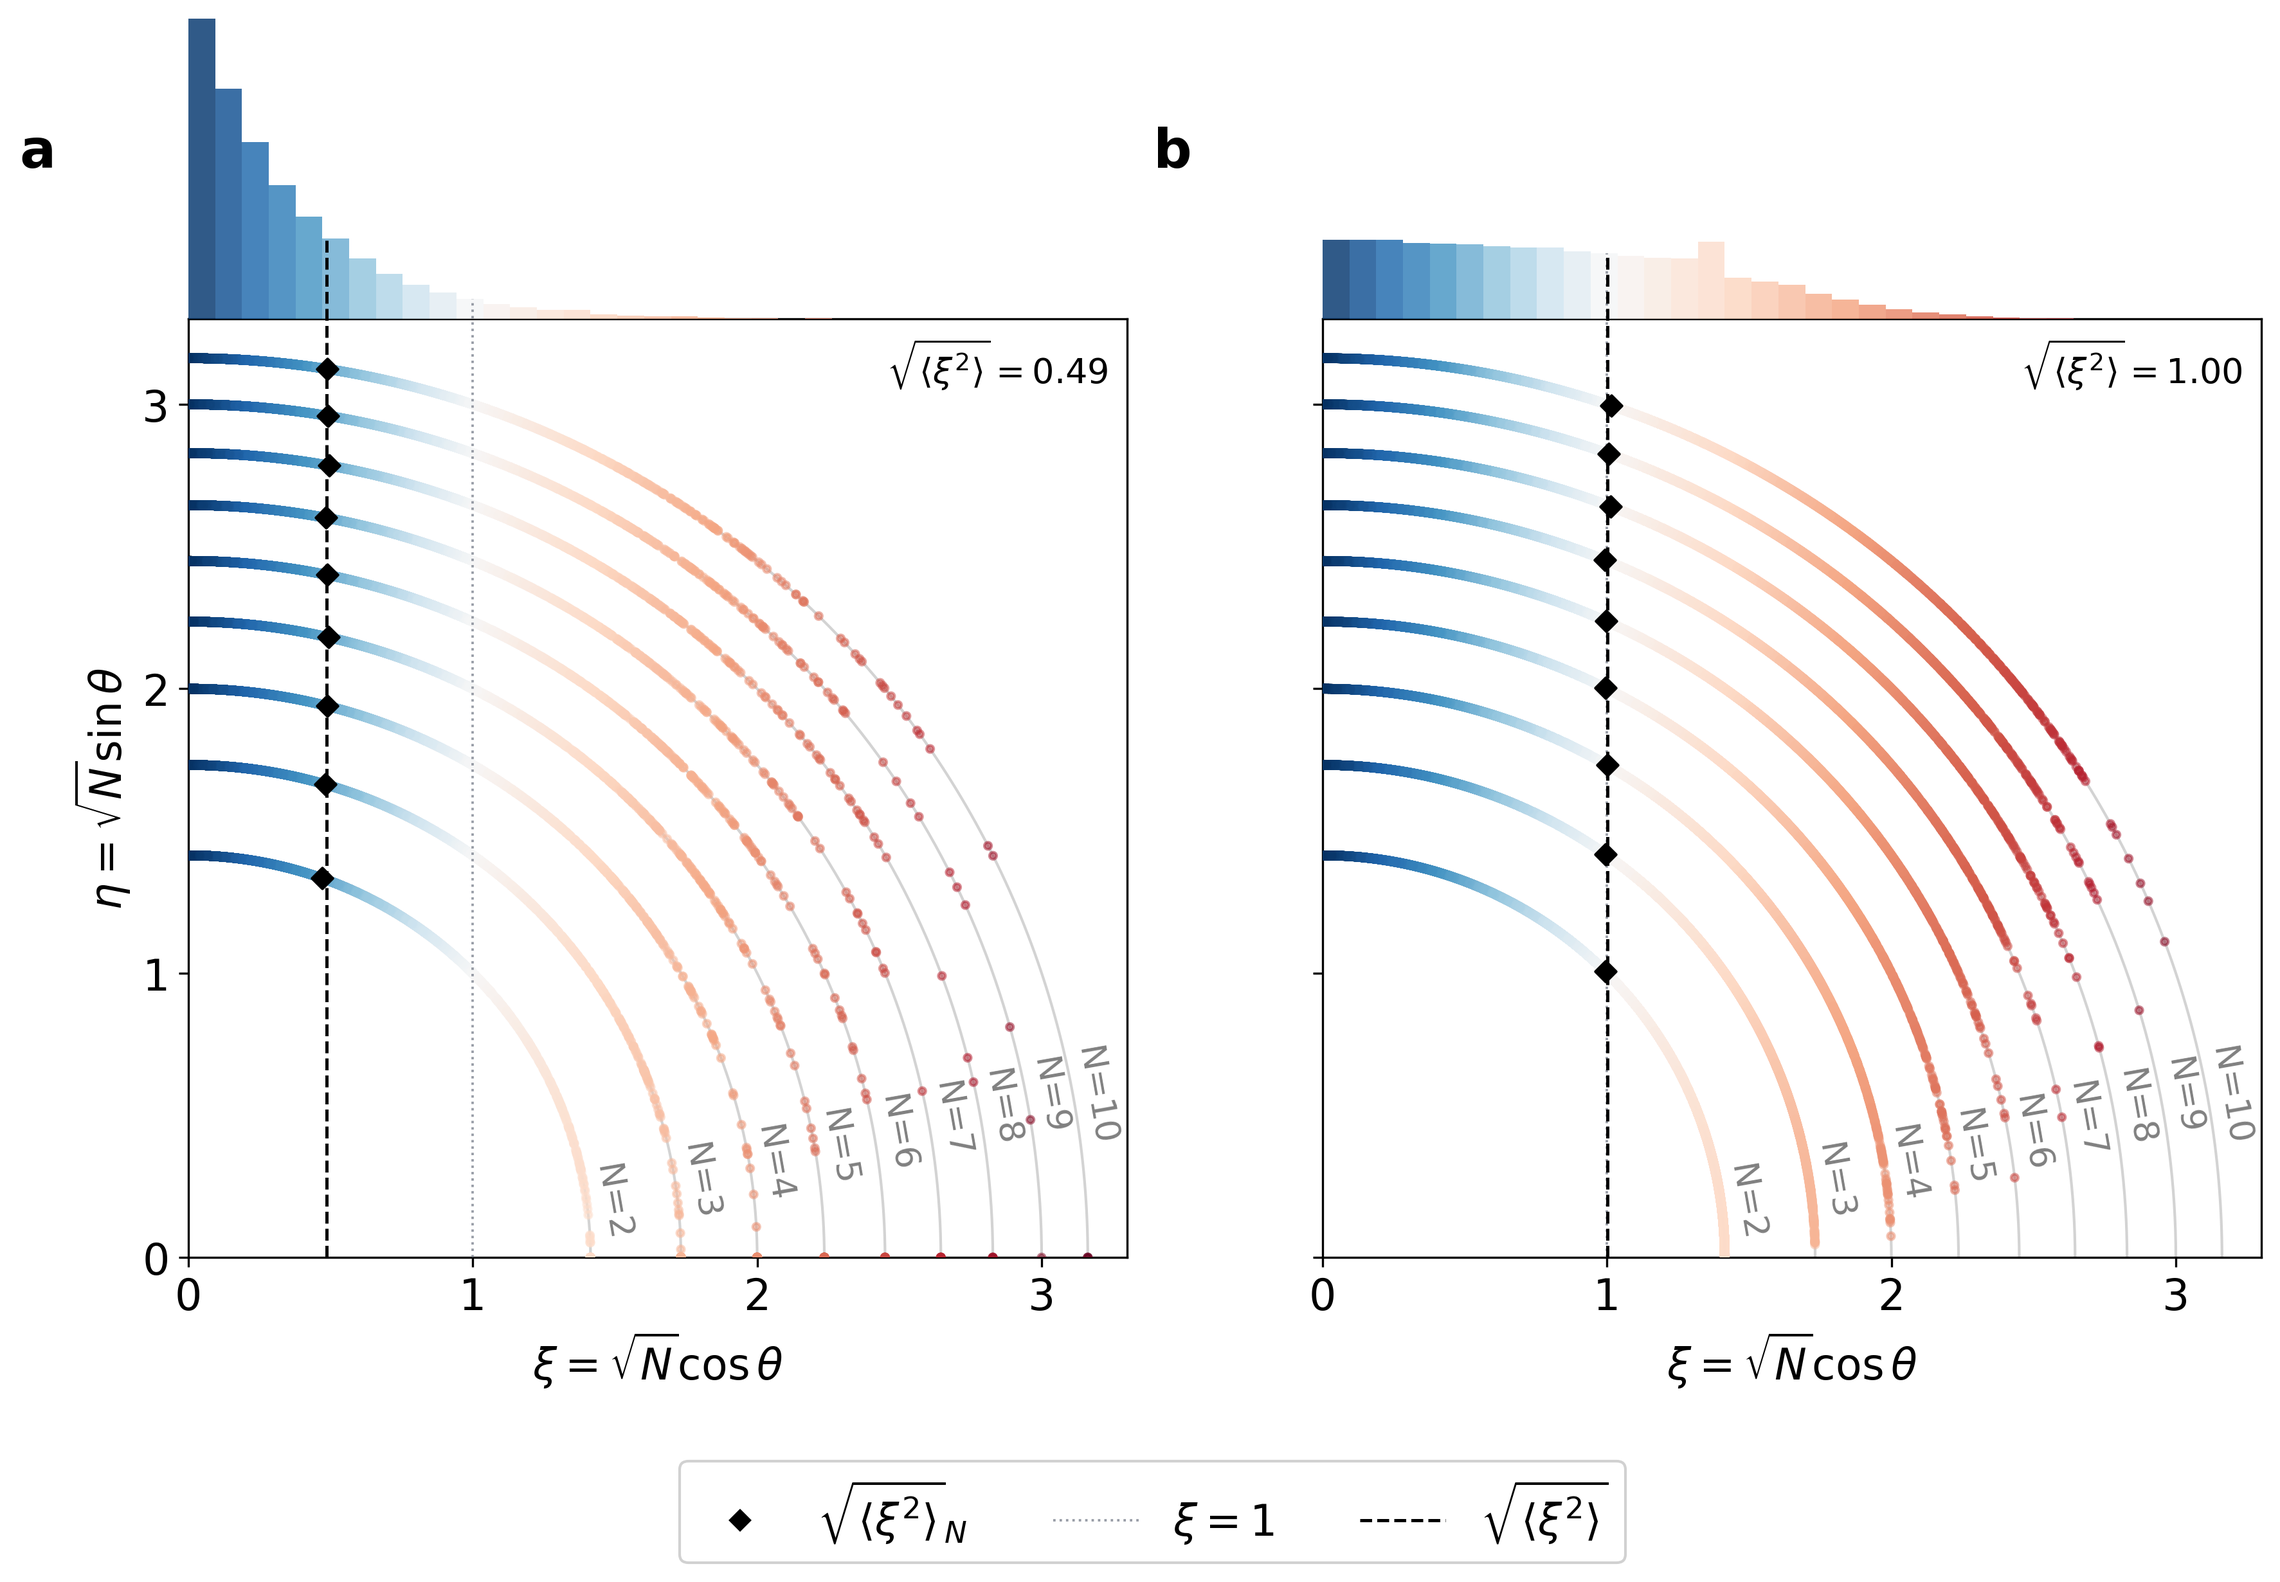
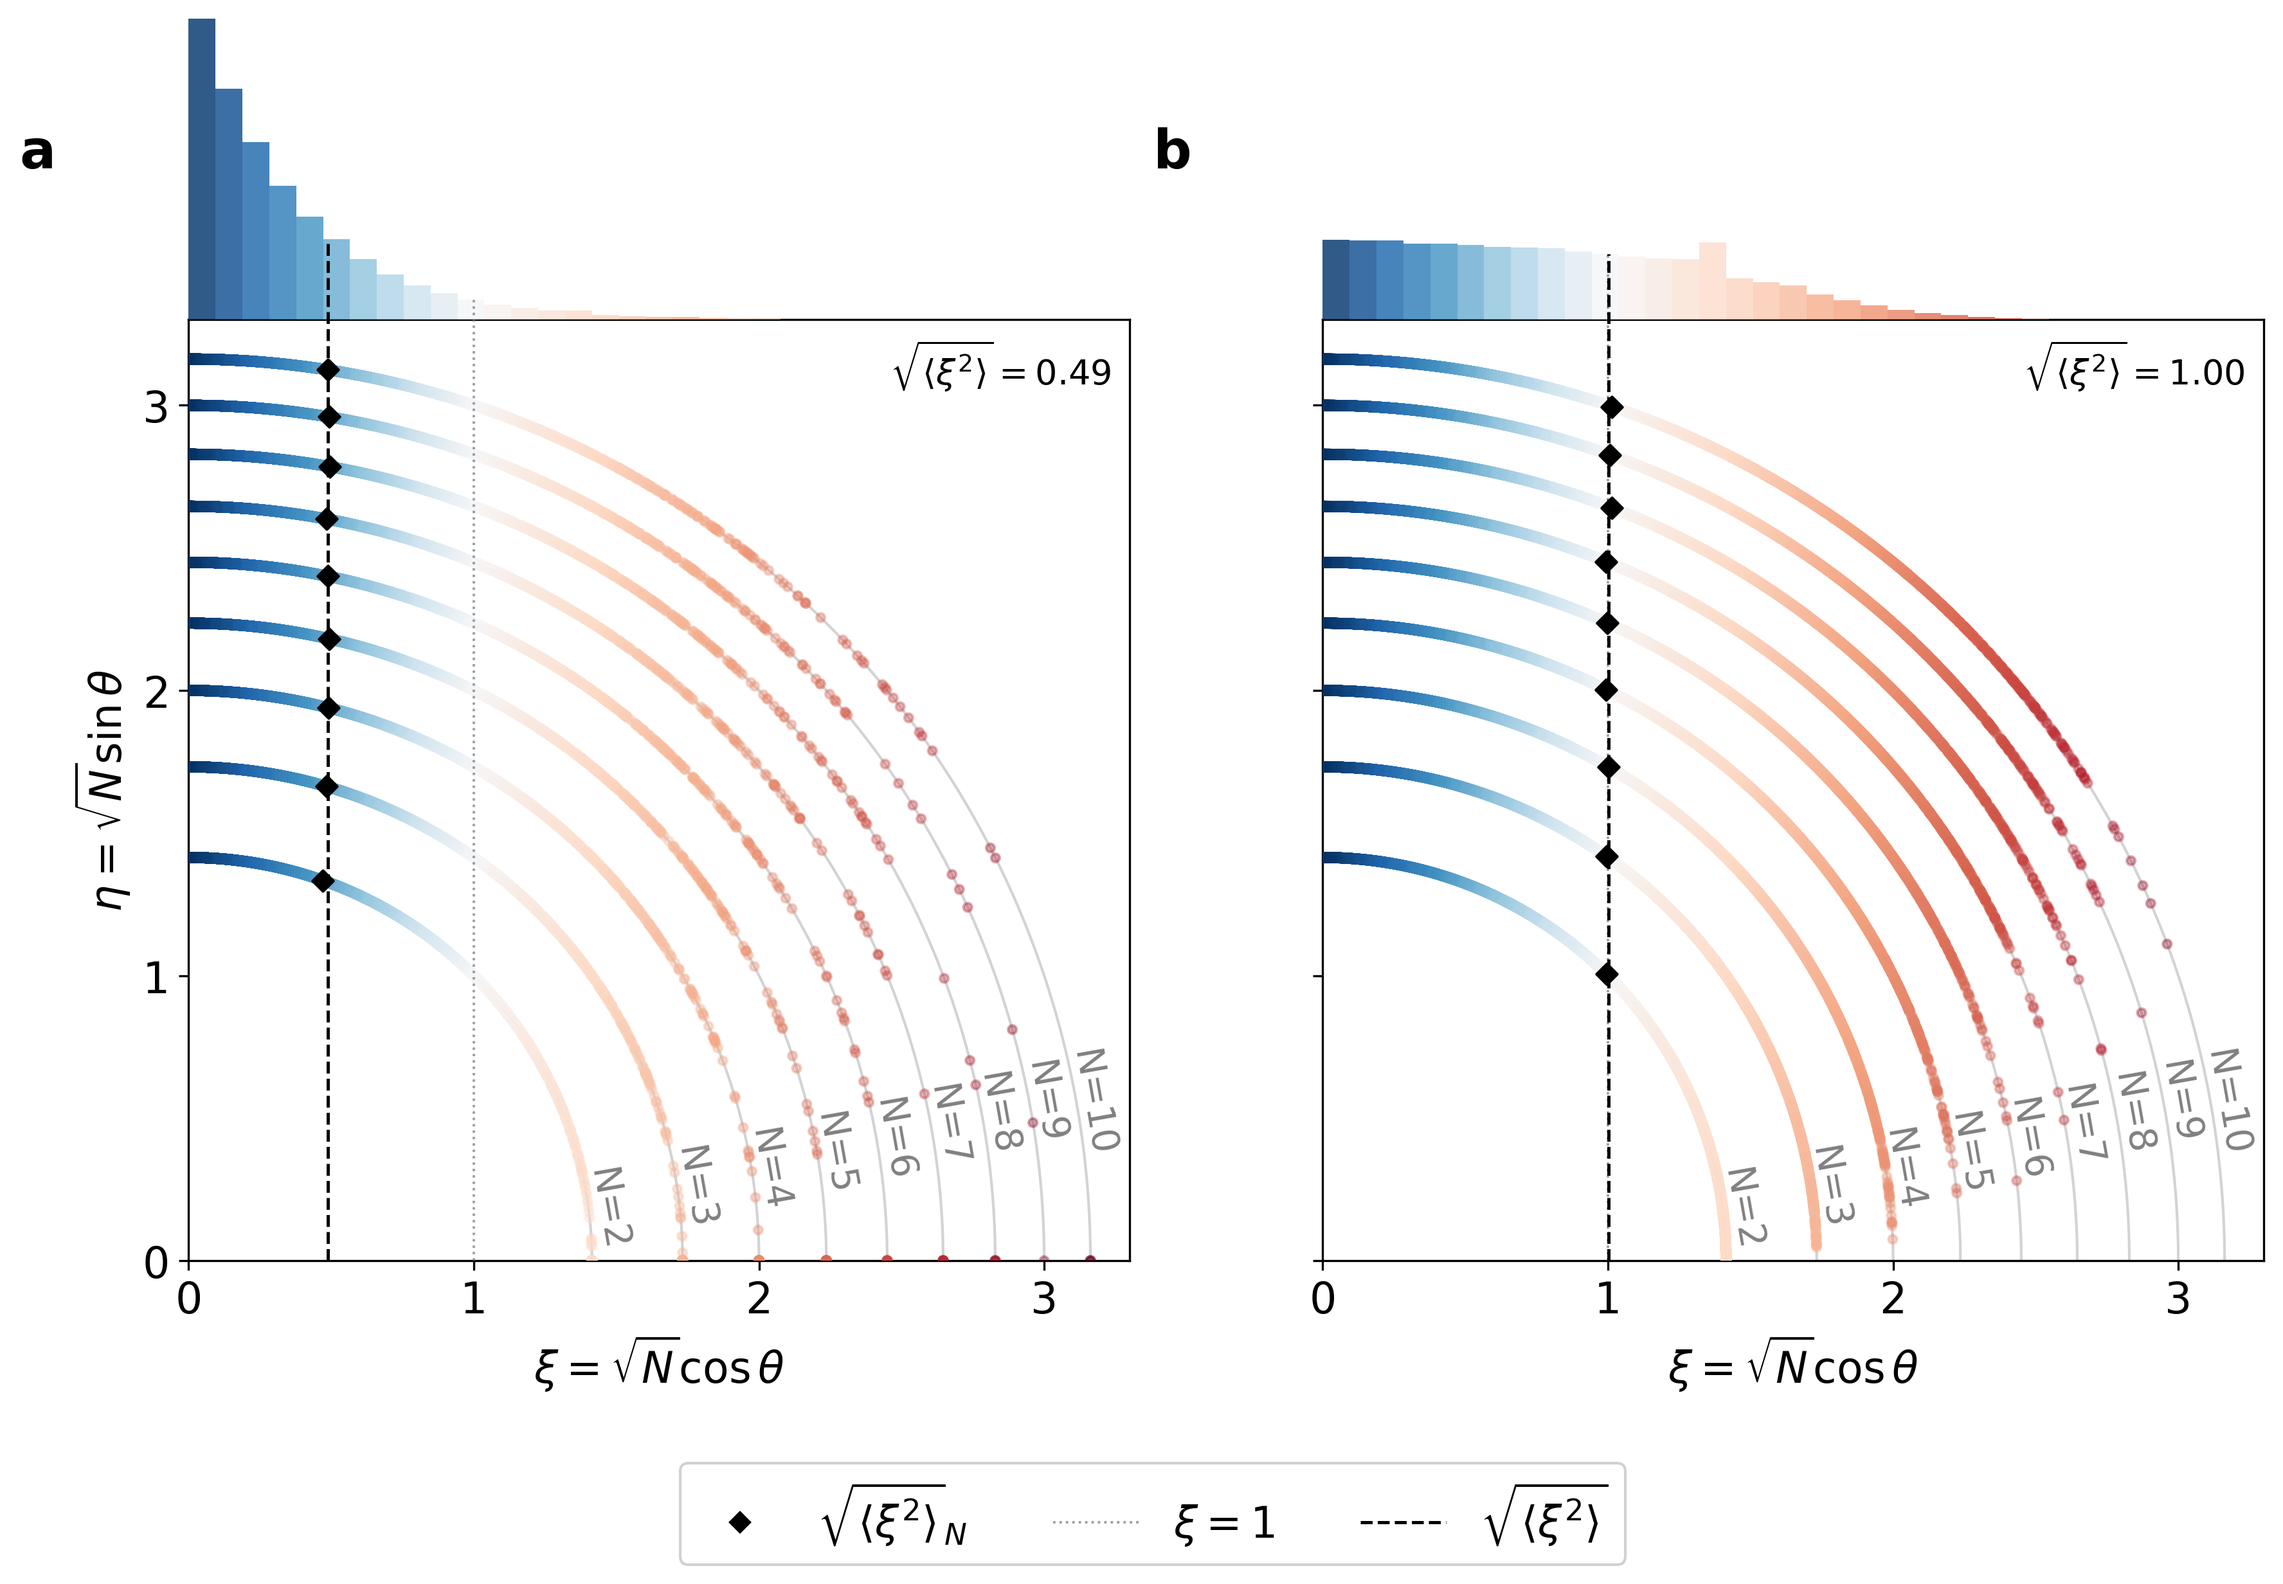
Figure changes

diff --git a/scripts/figures/fig6_lambda_sweep.py b/scripts/figures/fig6_lambda_sweep.py
@@ -14,6 +14,7 @@ import re
 import pandas as pd
 import matplotlib.pyplot as plt
 import matplotlib.ticker as ticker
+from matplotlib.patches import Patch
 
 # ── Journal style (npj Computational Materials) ──────────────────────────
 # source_pt = target_print_pt × (fig_width / journal_col_width)
@@ -30,14 +31,14 @@ plt.rcParams.update({'font.family': 'sans-serif', 'font.size': _FS,
 # Series definitions
 SERIES = {
     "iiLoss":        dict(prefix="iiLoss_",        exclude="pcgrad|save",
-                          color="#4361EE", marker="o", ls="-",  lw=1.8),
+                          color="#7B9FFF", marker="o", ls="-",  lw=1.8),
     "HdLoss":        dict(prefix="HdLoss_",         exclude="pcgrad|save",
-                          color="#E040AB", marker="s", ls="-",  lw=1.8),
+                          color="#FF85C8", marker="s", ls="-",  lw=1.8),
     "iiLoss+PCGrad": dict(prefix="iiLoss_pcgrad_", exclude=None,
-                          color="#7B9FFF", marker="^", ls="--", lw=1.4,
+                          color="#4361EE", marker="^", ls="--", lw=1.4,
                           anchor="iiLoss_0.0"),
     "HdLoss+PCGrad": dict(prefix="HdLoss_pcgrad_", exclude=None,
-                          color="#FF85C8", marker="D", ls="--", lw=1.4,
+                          color="#E040AB", marker="D", ls="--", lw=1.4,
                           anchor="HdLoss_0.0"),
 }
 
@@ -50,11 +51,10 @@ METRICS = [
     ("rms_xi", r"$\xi_\mathrm{rms}$"),
 ]
 
-# Optimal lambda for iiLoss and HdLoss in panel (b) — marked with a star
-ED_OPTIMA = {
-    "iiLoss+PCGrad": 0.3,   # lowest Hd_MAE across iiLoss+PCGrad sweep
-    "HdLoss+PCGrad": 0.4,   # lowest Hd_MAE across HdLoss+PCGrad sweep
-}
+# λ* markers: shown on panel b (Hd_MAE) only for PCGrad variants.
+# Optimum is detected dynamically from the data (argmin).
+OPTIMA_SERIES  = ["iiLoss+PCGrad", "HdLoss+PCGrad"]
+OPTIMA_PANELS  = {"Hd_MAE"}
 
 
 def extract_alpha(name, prefix):
@@ -72,11 +72,11 @@ def main():
     df = pd.read_csv(args.csv)
     df.columns = df.columns.str.strip()
 
-    fig, axes = plt.subplots(1, 3, figsize=(12, 4), sharey=False)
-    fig.subplots_adjust(wspace=0.35)
+    fig, axes = plt.subplots(3, 1, figsize=(5, 10), sharey=False, sharex=True)
+    fig.subplots_adjust(hspace=0.08)
 
-    # Collect series data for optimum markers in panel b
-    series_data = {}
+    # Collect series data for optimum markers (Hd_MAE and rms_xi panels)
+    series_data = {}   # {col: {label: (sub_df, color)}}
 
     for ax_idx, (ax, (col, ylabel)) in enumerate(zip(axes, METRICS)):
         for label, cfg in SERIES.items():
@@ -113,69 +113,93 @@ def main():
                     markersize=5, markeredgecolor="white",
                     markeredgewidth=0.5, zorder=3, label=label)
 
-            if col == "Hd_MAE":
-                series_data[label] = (sub, color)
+            if col in OPTIMA_PANELS:
+                series_data.setdefault(col, {})[label] = (sub, color)
 
-        ax.set_xlabel(r"$\lambda$", fontsize=_FS)
+        # x-axis: ticks + label only on bottom panel
+        if ax_idx < 2:
+            ax.tick_params(labelbottom=False)
+        else:
+            ax.set_xlabel(r"$\lambda$", fontsize=_FS)
         ax.set_ylabel(ylabel, fontsize=_FS)
         ax.tick_params(labelsize=_FS)
         ax.xaxis.set_minor_locator(ticker.MultipleLocator(0.1))
         ax.yaxis.set_minor_locator(ticker.MultipleLocator(0.01))
         ax.yaxis.set_major_formatter(ticker.FormatStrFormatter('%.2f'))
-        if ax_idx == 0:
+        if ax_idx in (0, 1):
             ax.set_yticks([0.10, 0.15, 0.20, 0.25])
+            ax.set_ylim(0.087, 0.265)
         elif ax_idx == 2:
-            ax.set_yticks([0.90, 0.95, 1.00, 1.05]); ax.set_ylim(0.895, 1.055)
+            # No hardcoded range — let data drive it, then add 8 % padding
+            ax.yaxis.set_major_locator(ticker.MultipleLocator(0.05))
+            ax.margins(y=0.08)
         ax.grid(True, which="major", lw=0.4, alpha=0.5)
         ax.grid(True, which="minor", lw=0.2, alpha=0.3)
 
-        # Baseline axhline — label anchored to right end of line
+        # Baseline dotted line
         baseline_row = df[df["model"] == "iiLoss_0.0"]
         if not baseline_row.empty:
             bval = baseline_row[col].values[0]
-            ax.axhline(bval, color="grey", lw=1.0, ls=":", alpha=0.8, zorder=1, label=r"baseline ($\lambda\!=\!0$)")
-            #ax.text(0.97, bval, r"baseline ($\lambda\!=\!0$)",
-            #        transform=ax.get_yaxis_transform(),
-            #        ha="right", va="bottom", fontsize=7, color="grey",
-            #        style="italic",)
+            ax.axhline(bval, color="grey", lw=1.0, ls=":", alpha=0.8, zorder=1,
+                       label=r"baseline ($\lambda\!=\!0$)")
 
-        # Optimum markers in panel (b) for iiLoss and HdLoss
-        if col == "Hd_MAE":
-            for ser_label, opt_alpha in ED_OPTIMA.items():
-                if ser_label not in series_data:
+        # λ* markers: dynamic argmin for Hd_MAE and rms_xi panels
+        if col in OPTIMA_PANELS and col in series_data:
+            for ser_label in OPTIMA_SERIES:
+                if ser_label not in series_data[col]:
                     continue
-                sub, color = series_data[ser_label]
-                row = sub[sub["alpha"] == opt_alpha]
-                if row.empty:
-                    row = sub.iloc[(sub["alpha"] - opt_alpha).abs().argsort()[:1]]
-                xv = row["alpha"].values[0]
-                yv = row[col].values[0]
-                ax.scatter(xv, yv, marker="*", s=180, color=color,
-                           edgecolors="white", linewidths=0.5, zorder=6)
+                sub, color = series_data[col][ser_label]
+                # exclude λ=0 anchor when finding minimum
+                cand = sub[sub["alpha"] > 0]
+                if cand.empty:
+                    continue
+                best_idx = cand[col].idxmin()
+                xv = cand.loc[best_idx, "alpha"]
+                yv = cand.loc[best_idx, col]
+                ax.scatter(xv, yv, marker="*", s=280, color=color,
+                           edgecolors="white", linewidths=0.6, zorder=6)
                 ax.annotate(rf"$\mathbf{{\lambda^*}}$",
-                            xy=(xv, yv), xytext=(4, 4),
+                            xy=(xv, yv), xytext=(7, -12),
                             textcoords="offset points",
                             fontsize=_FS_SM, color=color, fontweight="bold")
 
-    # Legend
+    # Legend — below the figure
+
     handles, labels = axes[0].get_legend_handles_labels()
     seen = {}
     for h, l in zip(handles, labels):
         if l not in seen:
             seen[l] = h
-    fig.legend(seen.values(), seen.keys(),
-               loc="lower center", ncol=len(seen),
-               fontsize=_FS_LEG, framealpha=0.9,
-               bbox_to_anchor=(0.5, -0.13))
 
-    # Panel labels — ax.text for consistency with other figures
+    blank = Patch(visible=False)
+
+    LEGEND_ORDER = [
+    "iiLoss",
+    "HdLoss",
+    "iiLoss+PCGrad",
+    "HdLoss+PCGrad",
+    r"baseline ($\lambda\!=\!0$)",
+    ]
+
+    ordered = [seen[l] for l in LEGEND_ORDER if l in seen]
+    labels = [l for l in LEGEND_ORDER if l in seen]
+
+    ordered.insert(2, blank)
+    labels.insert(2, "")
+    fig.legend(ordered, labels,
+               loc="lower right", ncol=2,
+               fontsize=_FS_LEG, framealpha=0.9,
+               bbox_to_anchor=(1.0, -0.08))
+
+    # Panel labels
     for ax, letter in zip(axes, ["a", "b", "c"]):
-        ax.text(-0.12, 1.05, letter, transform=ax.transAxes,
+        ax.text(-0.30, 1.05, letter, transform=ax.transAxes,
                 fontsize=_FS_PANEL, fontweight="bold", va="bottom", ha="left",
                 clip_on=False)
-        
+
     fig.tight_layout()
     fig.savefig(args.out, dpi=300, bbox_inches="tight")
     print(f"Saved -> {args.out}")
 
-
+if __name__ == "__main__":
+    main()

diff --git a/scripts/figures/fig2_circles.py b/scripts/figures/fig2_circles.py
@@ -80,9 +80,9 @@ def draw_panel(ax, key):
         R = np.sqrt(N)
         ax.plot(R * np.cos(arc_theta), R * np.sin(arc_theta),
                 color='lightgray', lw=1.0, zorder=0)
-        ax.text(R * np.cos(0.24) + 0.04 - R * 0.003,
+        ax.text(R * np.cos(0.24) + 0.01 - R * 0.003,
                 R * np.sin(0.24),
-                f'N={N}', color='gray', fontsize=_FS_SM,
+                f'N={N}', color='gray', fontsize=_FS_SM + 1,
                 va='top', ha='left', rotation=-80)
 
     # Scatter coloured by xi
@@ -93,7 +93,7 @@ def draw_panel(ax, key):
         all_x.extend(xi)
         all_y.extend(delta)
     ax.scatter(all_x, all_y, c=all_xi, cmap=CMAP, norm=norm,
-               s=7, alpha=0.5, zorder=3)
+               s=10, alpha=0.35, zorder=3)
 
     # Per-N RMS-xi diamonds — computed from the sampled data
     for N in N_VALS:

diff --git a/scripts/figures/fig3_model_comparison.py b/scripts/figures/fig3_model_comparison.py
@@ -107,13 +107,14 @@ def plot(by_model: dict, models: list, out_path: str):
             R = math.sqrt(N_val)
             ax.plot(R * np.cos(arc_theta), R * np.sin(arc_theta),
                     color="lightgray", lw=1.0, zorder=0)
-            ax.text((R + 0.10) * np.cos(0.38), (R + 0.10) * np.sin(0.38),
-                    f"{N_val}", color="gray", fontsize=_FS_SM * 0.5,
+            ax.text(R * np.cos(0.24) + 0.01 - R * 0.01,
+                    R * np.sin(0.24),
+                    f"{N_val}", color="gray", fontsize=_FS_SM * 0.6,
                     va="top", ha="left", rotation=-80)
 
         # Scatter
         ax.scatter(xis, deltas, c=xis, cmap=_CMAP, norm=norm,
-                   s=7, alpha=0.45, zorder=3)
+                   s=10, alpha=0.35, zorder=3)
 
         # Per-N RMS-ξ diamond
         for N_val in sorted(set(Ns)):
